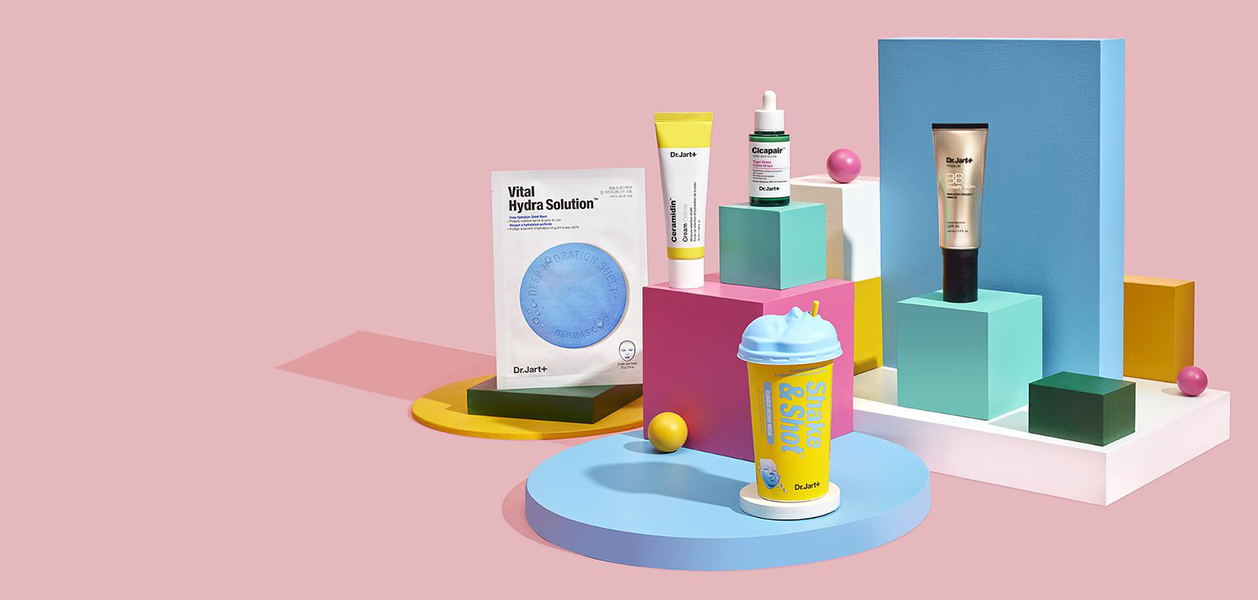
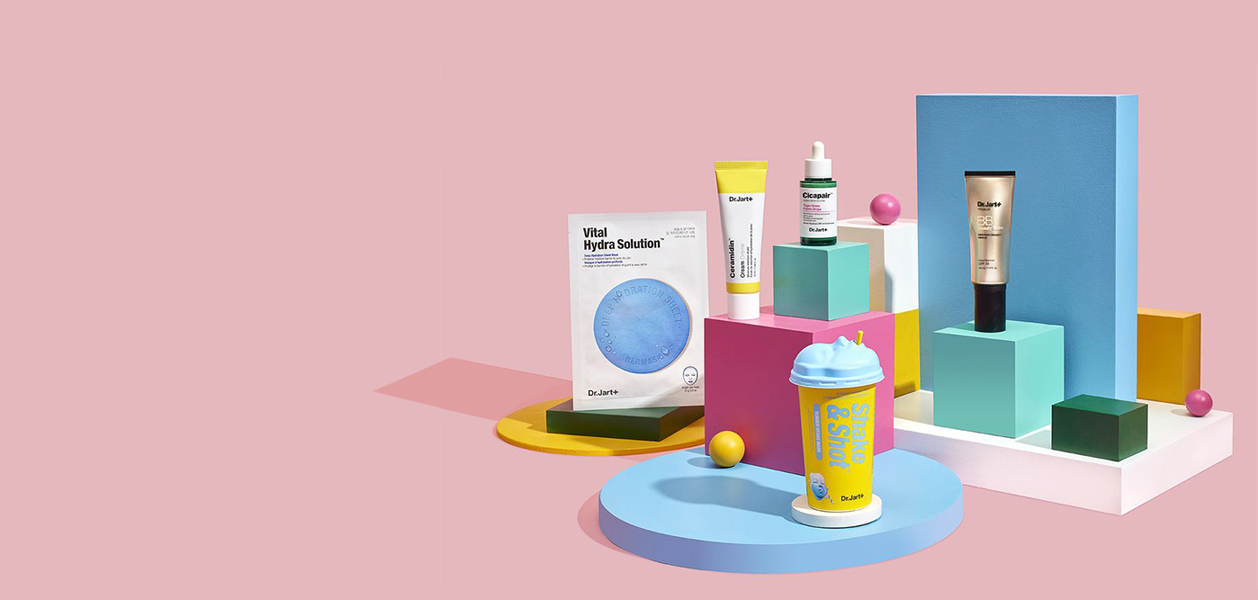
Change in header size.

Changed region(s): [[0.217, 0.06, 0.9921, 0.96]]

diff --git a/public/css/subscripion-style.css b/public/css/subscripion-style.css
@@ -1,7 +1,7 @@
 
 #header {
     width: auto;
-    height: 600px;
+    height: 700px;
     background-image: url("/images/pictures/header3.jpg");
     background-repeat: no-repeat;
     background-position: center center;
